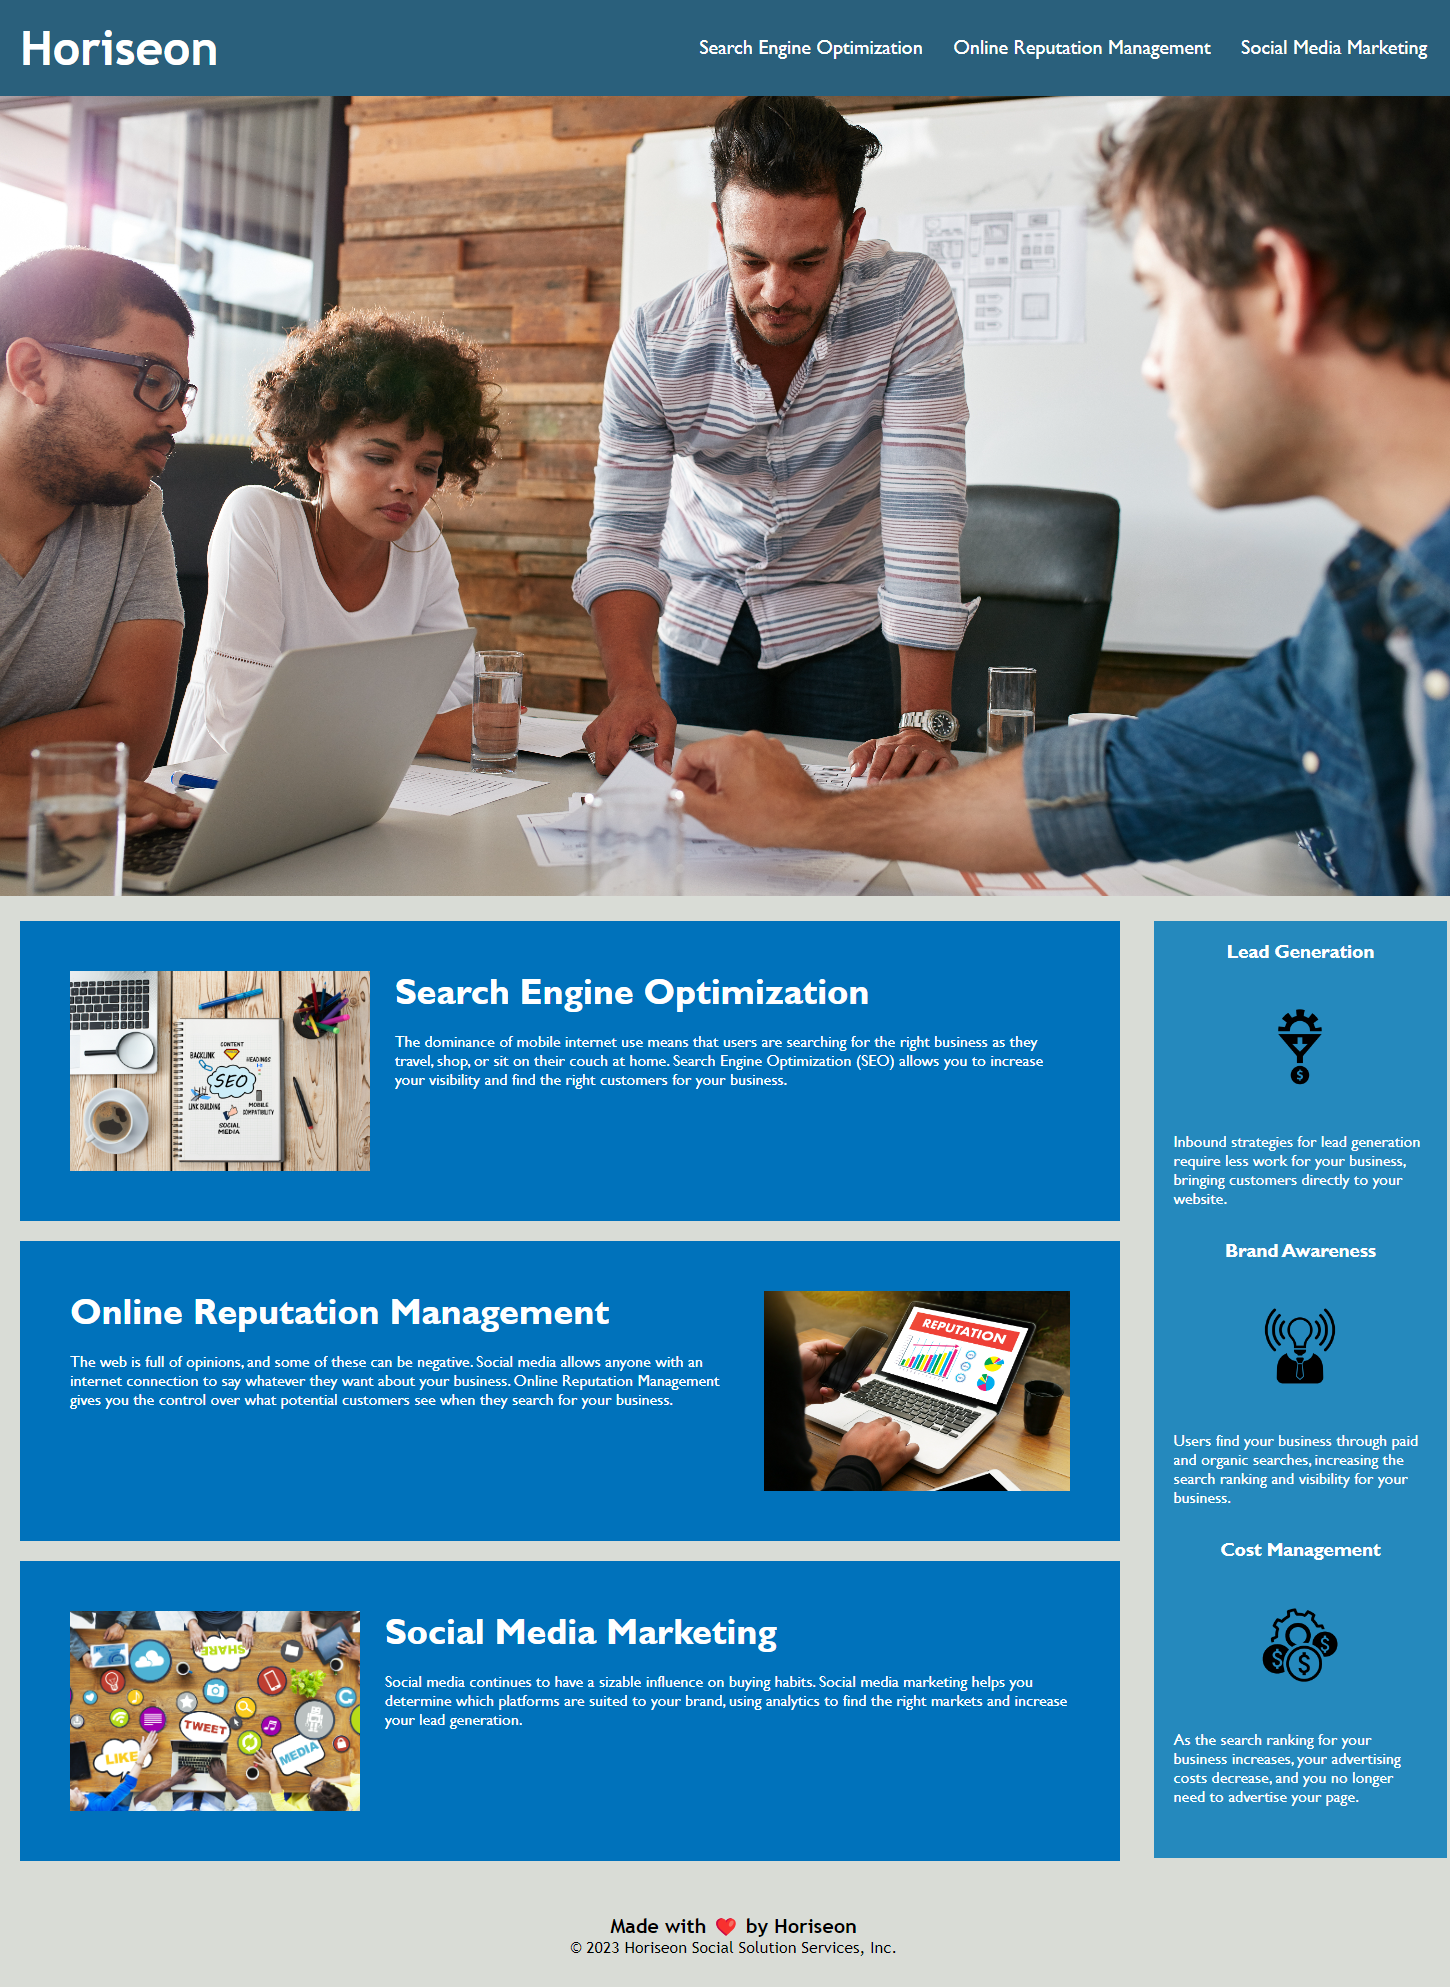
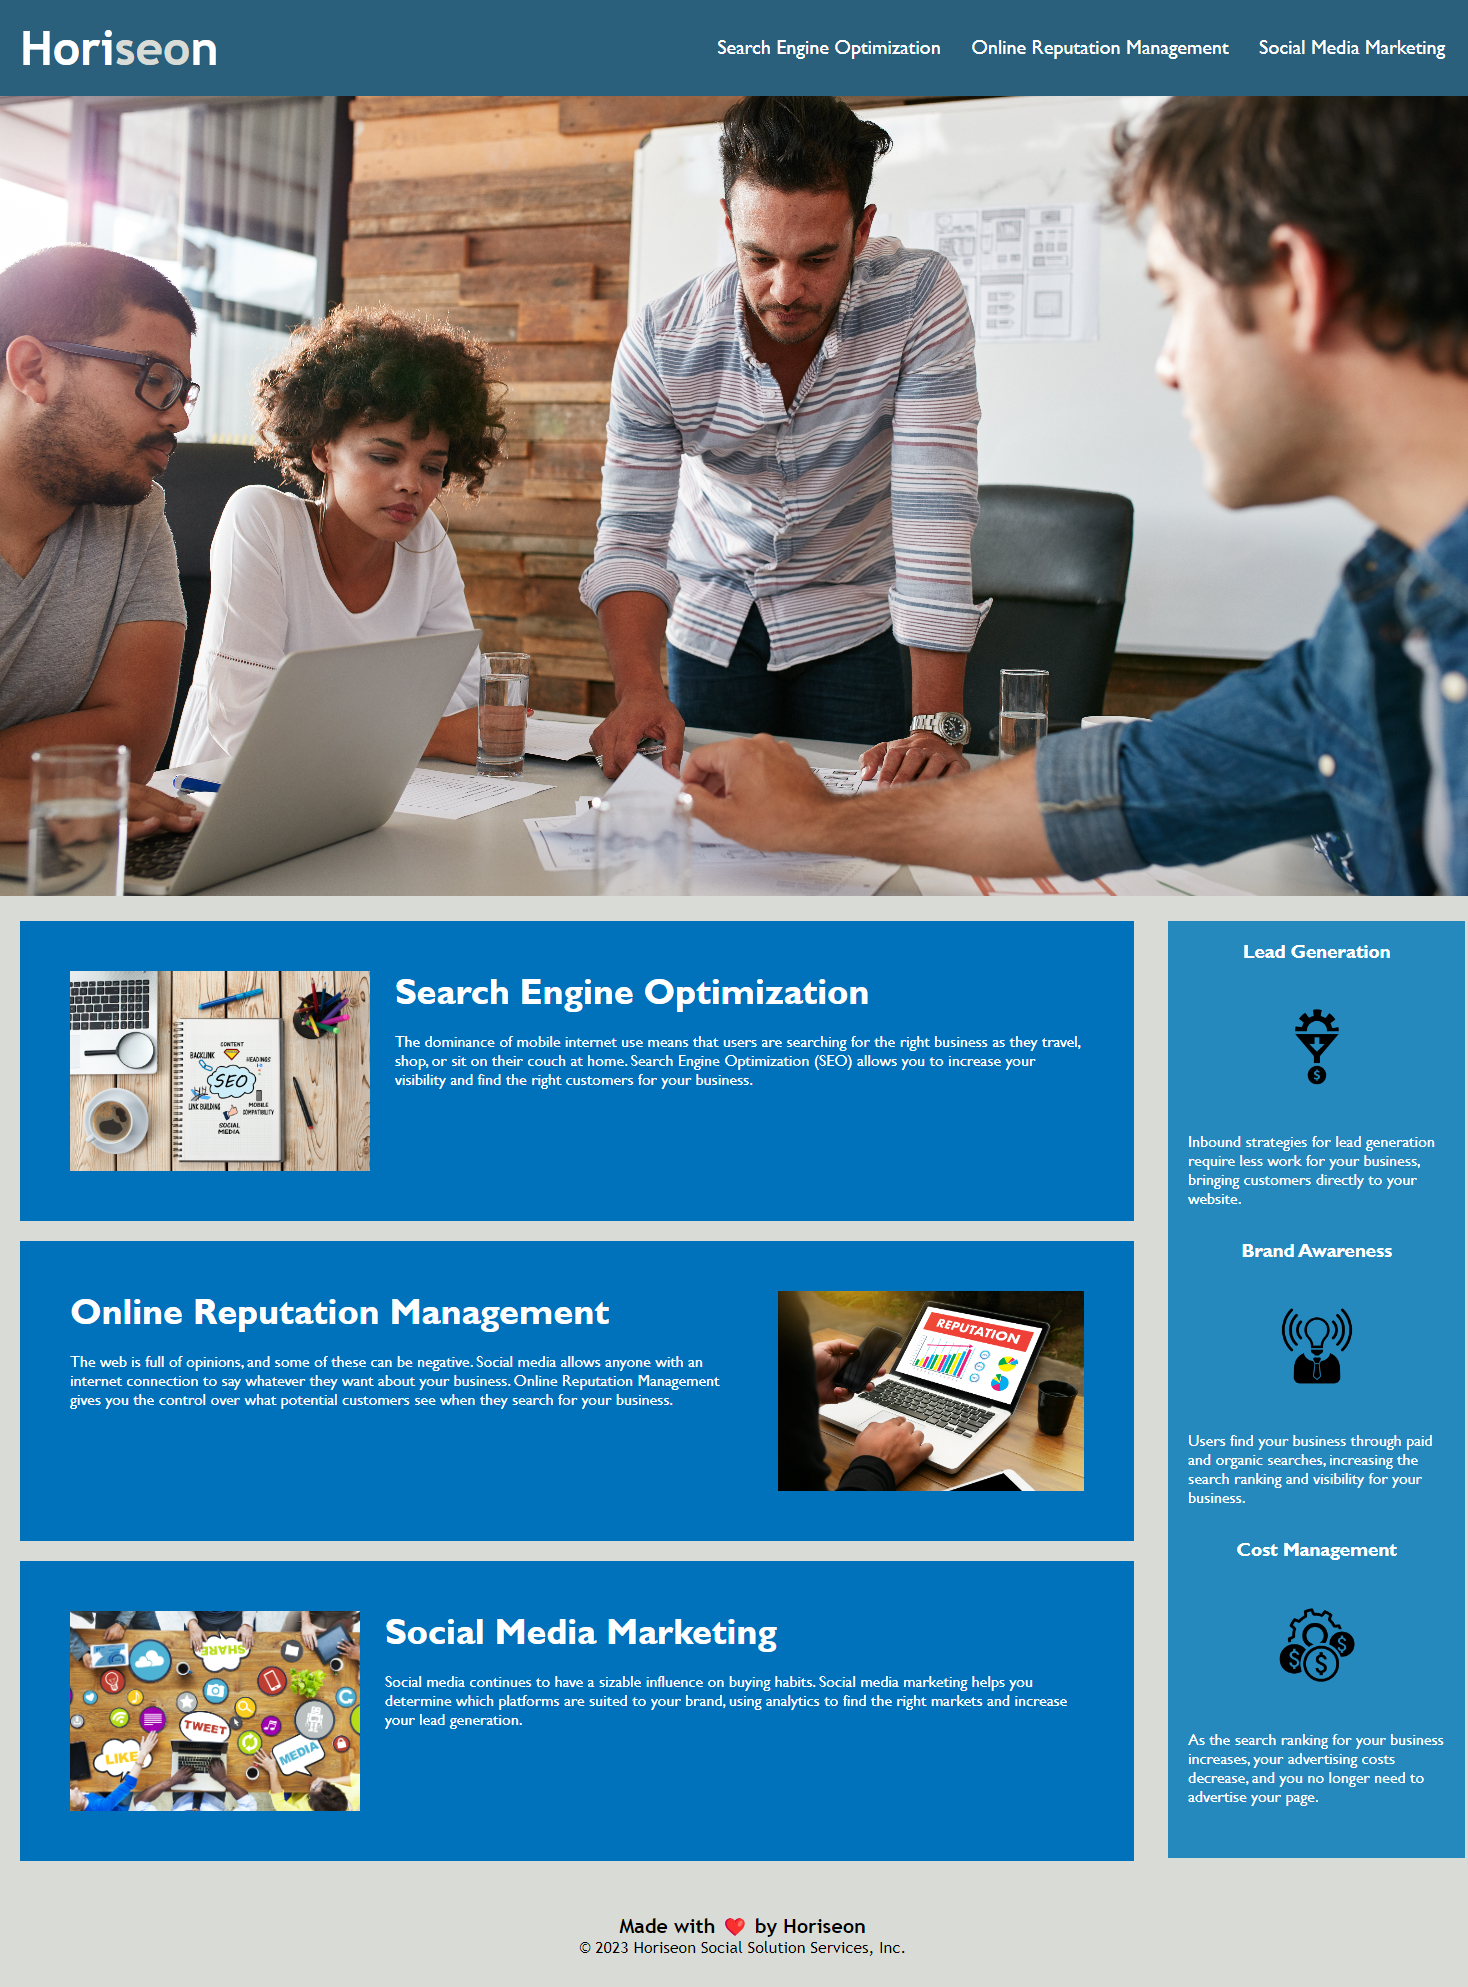
updated readme and css

diff --git a/assets/css/style.css b/assets/css/style.css
@@ -22,7 +22,8 @@ header h1 {
     font-size: 48px;
 }
 
-header h1 .seo {
+/*changed .seo to span in order to change color */
+header h1 span {
     color: #d9dcd6;
 }
 

diff --git a/README.md b/README.md
@@ -19,7 +19,7 @@ Deployed live site URL: https://jarettdesanti.github.io/02-Challenge-The_Horiseo
 
 ## Screenshot
 
-![Alt text](<Horiseon Screenshot.png>)
+![Alt text](<Horiseon screenshot.png>)
 
 ## Credits
 
